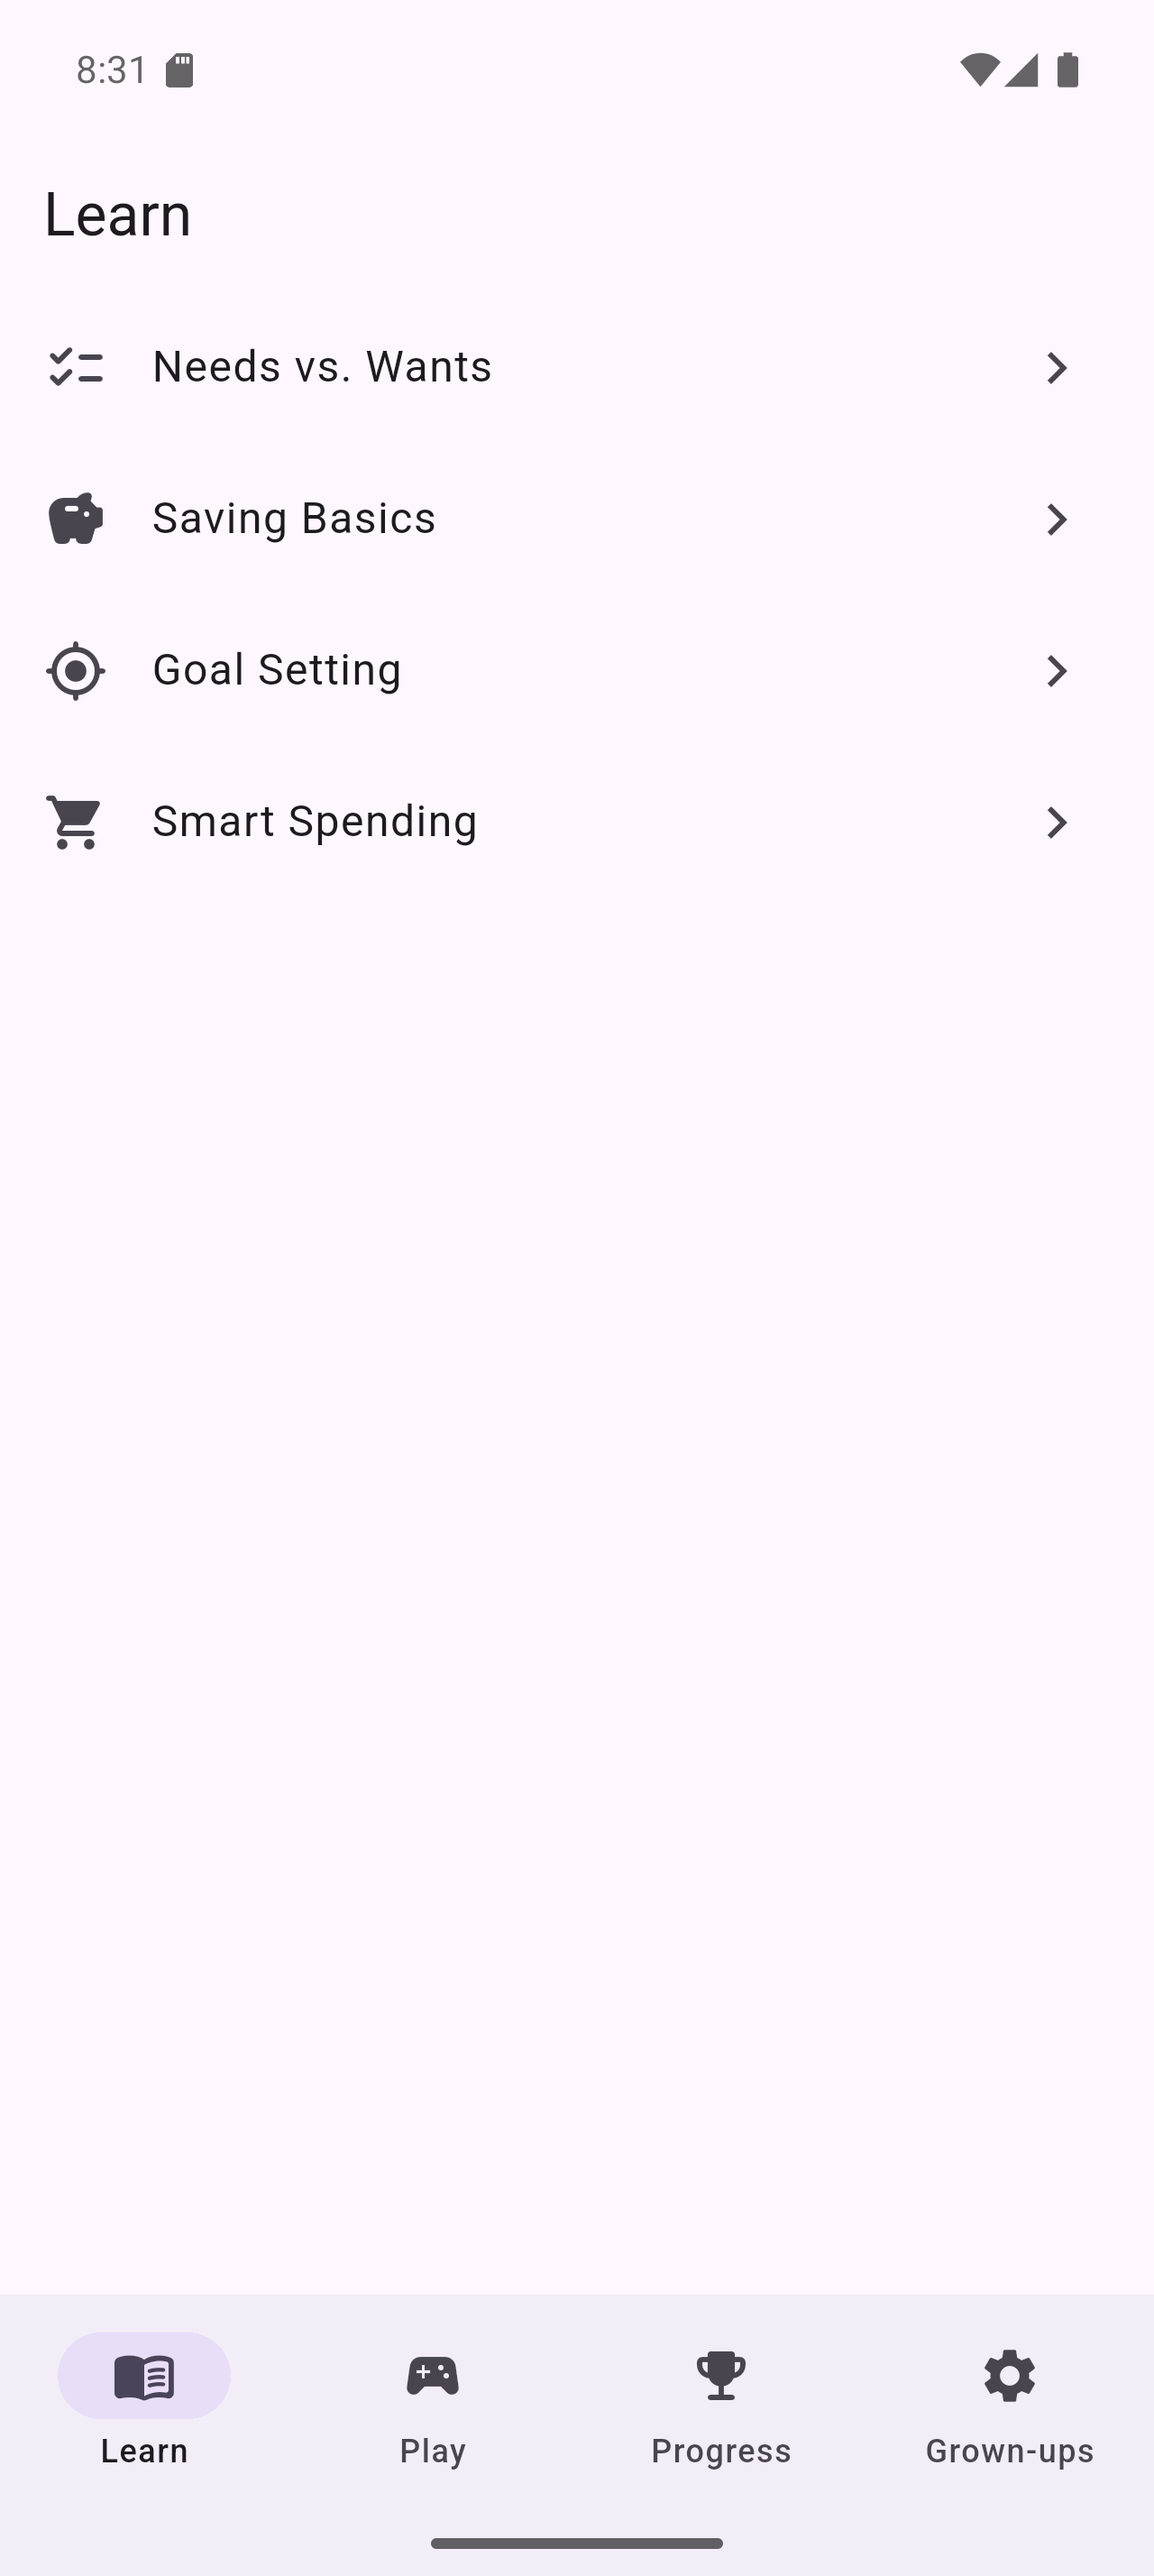
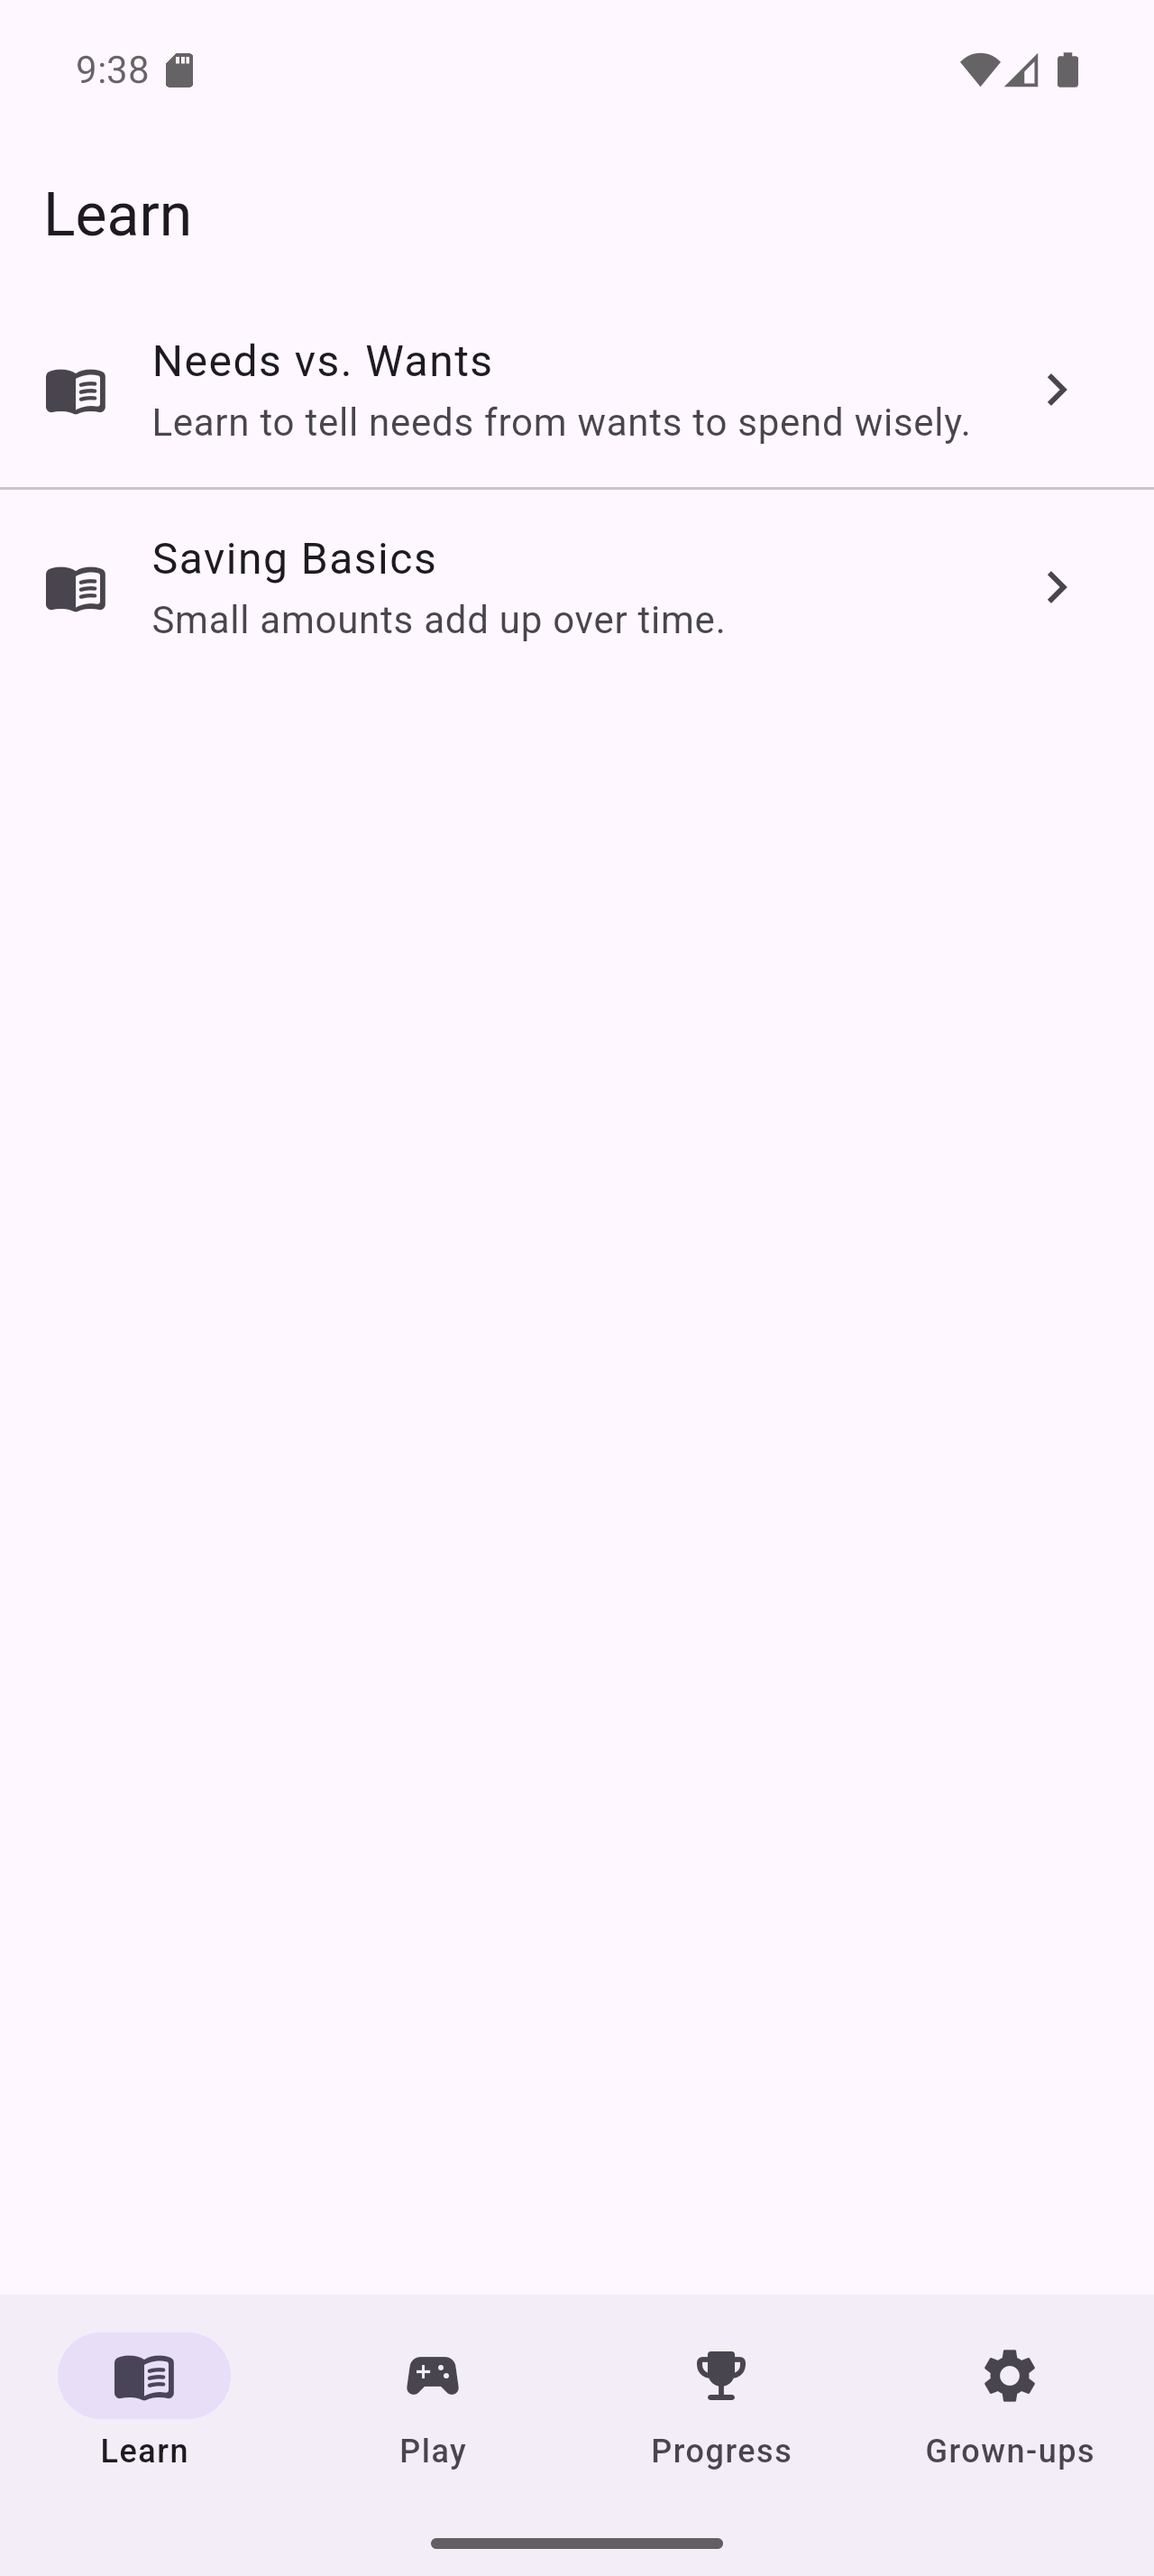
Add quiz feedback

diff --git a/lib/features/learn/view/quiz_page.dart b/lib/features/learn/view/quiz_page.dart
@@ -1,10 +1,12 @@
 import 'package:flutter/material.dart';
 import 'package:moneyquest/l10n/app_localizations.dart';
+import 'package:moneyquest/l10n/loc.dart';
 import '../../../models/lesson.dart';
 
 class QuizPage extends StatefulWidget {
   final List<QuizItem> items;
-  final void Function(int correctCount) onFinished;
+  // Changed: now returns (correctCount, hadWrong)
+  final void Function(int correctCount, bool hadWrong) onFinished;
   const QuizPage({super.key, required this.items, required this.onFinished});
 
   @override
@@ -13,52 +15,127 @@ class QuizPage extends StatefulWidget {
 
 class _QuizPageState extends State<QuizPage> {
   int index = 0;
-  int correct = 0;
+  int correctCount = 0;
+  bool hadWrong = false;
+
+  int? selectedIndex;   // which choice user tapped this question
+  bool answered = false;
 
   @override
   Widget build(BuildContext context) {
     final l10n = AppLocalizations.of(context)!;
     final item = widget.items[index];
 
-    String t(String key) => switch (key) {
-      'nw_q1' => l10n.nw_q1,
-      'nw_q1_c1' => l10n.nw_q1_c1,
-      'nw_q1_c2' => l10n.nw_q1_c2,
-      'nw_q1_c3' => l10n.nw_q1_c3,
-      'nw_q2' => l10n.nw_q2,
-      'nw_q2_c1' => l10n.nw_q2_c1,
-      'nw_q2_c2' => l10n.nw_q2_c2,
-      'nw_q2_c3' => l10n.nw_q2_c3,
-      'sb_q1' => l10n.sb_q1,
-      'sb_q1_c1' => l10n.sb_q1_c1,
-      'sb_q1_c2' => l10n.sb_q1_c2,
-      _ => key
-    };
-
     return Column(
       crossAxisAlignment: CrossAxisAlignment.start,
       children: [
-        Text(t(item.promptKey), style: Theme.of(context).textTheme.titleLarge),
+        Text(
+          t(l10n, item.promptKey),
+          style: Theme.of(context).textTheme.titleLarge,
+        ),
         const SizedBox(height: 16),
+
+        // Choices
         for (var i = 0; i < item.choices.length; i++)
           Padding(
             padding: const EdgeInsets.only(bottom: 8),
-            child: OutlinedButton(
-              onPressed: () {
-                if (i == item.correctIndex) correct++;
-                if (index + 1 < widget.items.length) {
-                  setState(() => index++);
-                } else {
-                  widget.onFinished(correct);
-                }
+            child: _AnswerButton(
+              text: t(l10n, item.choices[i]),
+              enabled: !answered,
+              isCorrect: answered && i == item.correctIndex,
+              isWrongSelected: answered && selectedIndex == i && i != item.correctIndex,
+              onTap: () {
+                if (answered) return;
+                final isCorrect = i == item.correctIndex;
+                setState(() {
+                  selectedIndex = i;
+                  answered = true;
+                  if (isCorrect) {
+                    correctCount++;
+                  } else {
+                    hadWrong = true;
+                  }
+                });
               },
-              child: Align(
-                alignment: Alignment.centerLeft,
-                child: Text(t(item.choices[i])),
-              ),
             ),
           ),
+
+        const SizedBox(height: 12),
+
+        // Feedback
+        if (answered)
+          Row(
+            children: [
+              Icon(
+                (selectedIndex == item.correctIndex)
+                    ? Icons.check_circle_rounded
+                    : Icons.cancel_rounded,
+              ),
+              const SizedBox(width: 8),
+              Text(
+                (selectedIndex == item.correctIndex) ? 'Correct!' : 'Try again',
+                style: Theme.of(context).textTheme.titleMedium,
+              ),
+            ],
+          ),
+
+        const Spacer(),
+
+        // Next / Finish
+        Align(
+          alignment: Alignment.bottomRight,
+          child: FilledButton(
+            onPressed: !answered
+                ? null
+                : () {
+                    if (index + 1 < widget.items.length) {
+                      setState(() {
+                        index++;
+                        selectedIndex = null;
+                        answered = false;
+                      });
+                    } else {
+                      widget.onFinished(correctCount, hadWrong);
+                    }
+                  },
+            child: Text(index + 1 < widget.items.length ? 'Next' : 'Finish'),
+          ),
+        ),
       ],
+    );
+  }
+}
+
+class _AnswerButton extends StatelessWidget {
+  final String text;
+  final bool enabled;
+  final bool isCorrect;
+  final bool isWrongSelected;
+  final VoidCallback onTap;
+
+  const _AnswerButton({
+    required this.text,
+    required this.enabled,
+    required this.isCorrect,
+    required this.isWrongSelected,
+    required this.onTap,
+  });
+
+  @override
+  Widget build(BuildContext context) {
+    Color? bg;
+    if (isCorrect) bg = Theme.of(context).colorScheme.primary.withOpacity(0.12);
+    if (isWrongSelected) bg = Theme.of(context).colorScheme.error.withOpacity(0.12);
+
+    return OutlinedButton(
+      onPressed: enabled ? onTap : null,
+      style: OutlinedButton.styleFrom(
+        backgroundColor: bg,
+      ),
+      child: Align(
+        alignment: Alignment.centerLeft,
+        child: Text(text),
+      ),
     );
   }
 }

diff --git a/lib/features/learn/view/lesson_page.dart b/lib/features/learn/view/lesson_page.dart
@@ -1,6 +1,7 @@
 import 'package:flutter/material.dart';
 import 'package:flutter_riverpod/flutter_riverpod.dart';
 import 'package:moneyquest/l10n/app_localizations.dart';
+import 'package:moneyquest/l10n/loc.dart';
 import '../../../models/lesson.dart';
 import '../../../state/progress_store.dart';
 import 'quiz_page.dart';
@@ -20,21 +21,20 @@ class _LessonPageState extends ConsumerState<LessonPage> {
   Widget build(BuildContext context) {
     final l10n = AppLocalizations.of(context)!;
     final lesson = widget.lesson;
-    final title = _t(l10n, lesson.titleKey);
-
     final isCards = step < lesson.cards.length;
-    final isQuiz = step >= lesson.cards.length;
 
     return Scaffold(
-      appBar: AppBar(title: Text(title)),
+      appBar: AppBar(title: Text(t(l10n, lesson.titleKey))),
       body: Padding(
         padding: const EdgeInsets.all(16),
         child: isCards
             ? Column(
                 crossAxisAlignment: CrossAxisAlignment.start,
                 children: [
-                  Text(_t(l10n, lesson.cards[step].textKey),
-                      style: Theme.of(context).textTheme.titleMedium),
+                  Text(
+                    t(l10n, lesson.cards[step].textKey),
+                    style: Theme.of(context).textTheme.titleMedium,
+                  ),
                   const Spacer(),
                   Align(
                     alignment: Alignment.bottomRight,
@@ -42,42 +42,36 @@ class _LessonPageState extends ConsumerState<LessonPage> {
                       onPressed: () => setState(() => step++),
                       child: const Text('Next'),
                     ),
-                  )
+                  ),
                 ],
               )
             : QuizPage(
                 items: lesson.quiz,
-                onFinished: (correct) {
-                  ref.read(progressProvider.notifier).addXp(lesson.xp);
-                  ref.read(progressProvider.notifier).markCompleted(lesson.id);
-                  Navigator.of(context).pop(); // back to list for now
+                // New signature: (correctCount, hadWrong)
+                onFinished: (correct, hadWrong) {
+                  if (!hadWrong) {
+                    // Award XP only if no wrong answers at all
+                    ref.read(progressProvider.notifier).addXp(lesson.xp);
+                    ref.read(progressProvider.notifier).markCompleted(lesson.id);
+                    ScaffoldMessenger.of(context).showSnackBar(
+                      SnackBar(
+                        content: Text('Perfect! +${lesson.xp} XP'),
+                        duration: const Duration(seconds: 2),
+                      ),
+                    );
+                  } else {
+                    ScaffoldMessenger.of(context).showSnackBar(
+                      const SnackBar(
+                        content: Text('No XP this time, get all answers correct to earn XP.'),
+                        duration: Duration(seconds: 2),
+                      ),
+                    );
+                  }
+
+                  Navigator.of(context).pop(); // back to Learn list
                 },
               ),
       ),
     );
-  }
-
-  String _t(AppLocalizations l10n, String key) {
-    switch (key) {
-      case 'needsWantsTitle': return l10n.needsWantsTitle;
-      case 'needsWantsSummary': return l10n.needsWantsSummary;
-      case 'nw_card1': return l10n.nw_card1;
-      case 'nw_card2': return l10n.nw_card2;
-      case 'nw_q1': return l10n.nw_q1;
-      case 'nw_q1_c1': return l10n.nw_q1_c1;
-      case 'nw_q1_c2': return l10n.nw_q1_c2;
-      case 'nw_q1_c3': return l10n.nw_q1_c3;
-      case 'nw_q2': return l10n.nw_q2;
-      case 'nw_q2_c1': return l10n.nw_q2_c1;
-      case 'nw_q2_c2': return l10n.nw_q2_c2;
-      case 'nw_q2_c3': return l10n.nw_q2_c3;
-      case 'savingBasicsTitle': return l10n.savingBasicsTitle;
-      case 'savingBasicsSummary': return l10n.savingBasicsSummary;
-      case 'sb_card1': return l10n.sb_card1;
-      case 'sb_q1': return l10n.sb_q1;
-      case 'sb_q1_c1': return l10n.sb_q1_c1;
-      case 'sb_q1_c2': return l10n.sb_q1_c2;
-      default: return key;
-    }
   }
 }

diff --git a/lib/features/learn/view/learn_page.dart b/lib/features/learn/view/learn_page.dart
@@ -1,6 +1,7 @@
 import 'package:flutter/material.dart';
 import 'package:flutter_riverpod/flutter_riverpod.dart';
 import 'package:moneyquest/l10n/app_localizations.dart';
+import 'package:moneyquest/l10n/loc.dart';
 import '../../learn/data/lesson_providers.dart';
 import '../../../models/lesson.dart';
 import 'lesson_page.dart';
@@ -16,14 +17,15 @@ class LearnPage extends ConsumerWidget {
     return Scaffold(
       appBar: AppBar(title: Text(l10n.learnTitle)),
       body: asyncLessons.when(
-        data: (lessons) => ListView.builder(
+        data: (lessons) => ListView.separated(
           itemCount: lessons.length,
+          separatorBuilder: (_, __) => const Divider(height: 1),
           itemBuilder: (_, i) {
             final lesson = lessons[i];
             return ListTile(
               leading: const Icon(Icons.menu_book_rounded),
-              title: Text(AppLocalizations.of(context)!.getString(lesson.titleKey) ?? lesson.titleKey),
-              subtitle: Text(AppLocalizations.of(context)!.getString(lesson.summaryKey) ?? ''),
+              title: Text(t(l10n, lesson.titleKey)),
+              subtitle: Text(t(l10n, lesson.summaryKey)),
               trailing: const Icon(Icons.chevron_right),
               onTap: () => Navigator.of(context).push(
                 MaterialPageRoute(builder: (_) => LessonPage(lesson: lesson)),
@@ -35,20 +37,5 @@ class LearnPage extends ConsumerWidget {
         error: (e, _) => Center(child: Text('Error: $e')),
       ),
     );
-  }
-}
-
-// helper extension to safely fetch unknown keys (optional)
-extension on AppLocalizations {
-  String? getString(String key) {
-    try {
-      final map = <String, String>{
-        // This map is only needed if you want dynamic lookup.
-        // For now we’ll access via switch in LessonPage to avoid reflection.
-      };
-      return map[key];
-    } catch (_) {
-      return null;
-    }
   }
 }

diff --git a/lib/l10n/loc.dart b/lib/l10n/loc.dart
@@ -1,0 +1,37 @@
+import 'package:moneyquest/l10n/app_localizations.dart';
+
+/// Map JSON string keys -> generated l10n getters.
+/// Add new cases here whenever you add keys to your .arb files.
+String t(AppLocalizations l10n, String key) {
+  switch (key) {
+    // Lesson titles & summaries
+    case 'needsWantsTitle': return l10n.needsWantsTitle;
+    case 'needsWantsSummary': return l10n.needsWantsSummary;
+    case 'savingBasicsTitle': return l10n.savingBasicsTitle;
+    case 'savingBasicsSummary': return l10n.savingBasicsSummary;
+
+    // Cards
+    case 'nw_card1': return l10n.nw_card1;
+    case 'nw_card2': return l10n.nw_card2;
+    case 'sb_card1': return l10n.sb_card1;
+
+    // Quiz prompts & choices (Needs vs Wants)
+    case 'nw_q1': return l10n.nw_q1;
+    case 'nw_q1_c1': return l10n.nw_q1_c1;
+    case 'nw_q1_c2': return l10n.nw_q1_c2;
+    case 'nw_q1_c3': return l10n.nw_q1_c3;
+
+    case 'nw_q2': return l10n.nw_q2;
+    case 'nw_q2_c1': return l10n.nw_q2_c1;
+    case 'nw_q2_c2': return l10n.nw_q2_c2;
+    case 'nw_q2_c3': return l10n.nw_q2_c3;
+
+    // Quiz (Saving Basics)
+    case 'sb_q1': return l10n.sb_q1;
+    case 'sb_q1_c1': return l10n.sb_q1_c1;
+    case 'sb_q1_c2': return l10n.sb_q1_c2;
+
+    default:
+      return key; // fallback shows the key if unmapped (useful during dev)
+  }
+}
